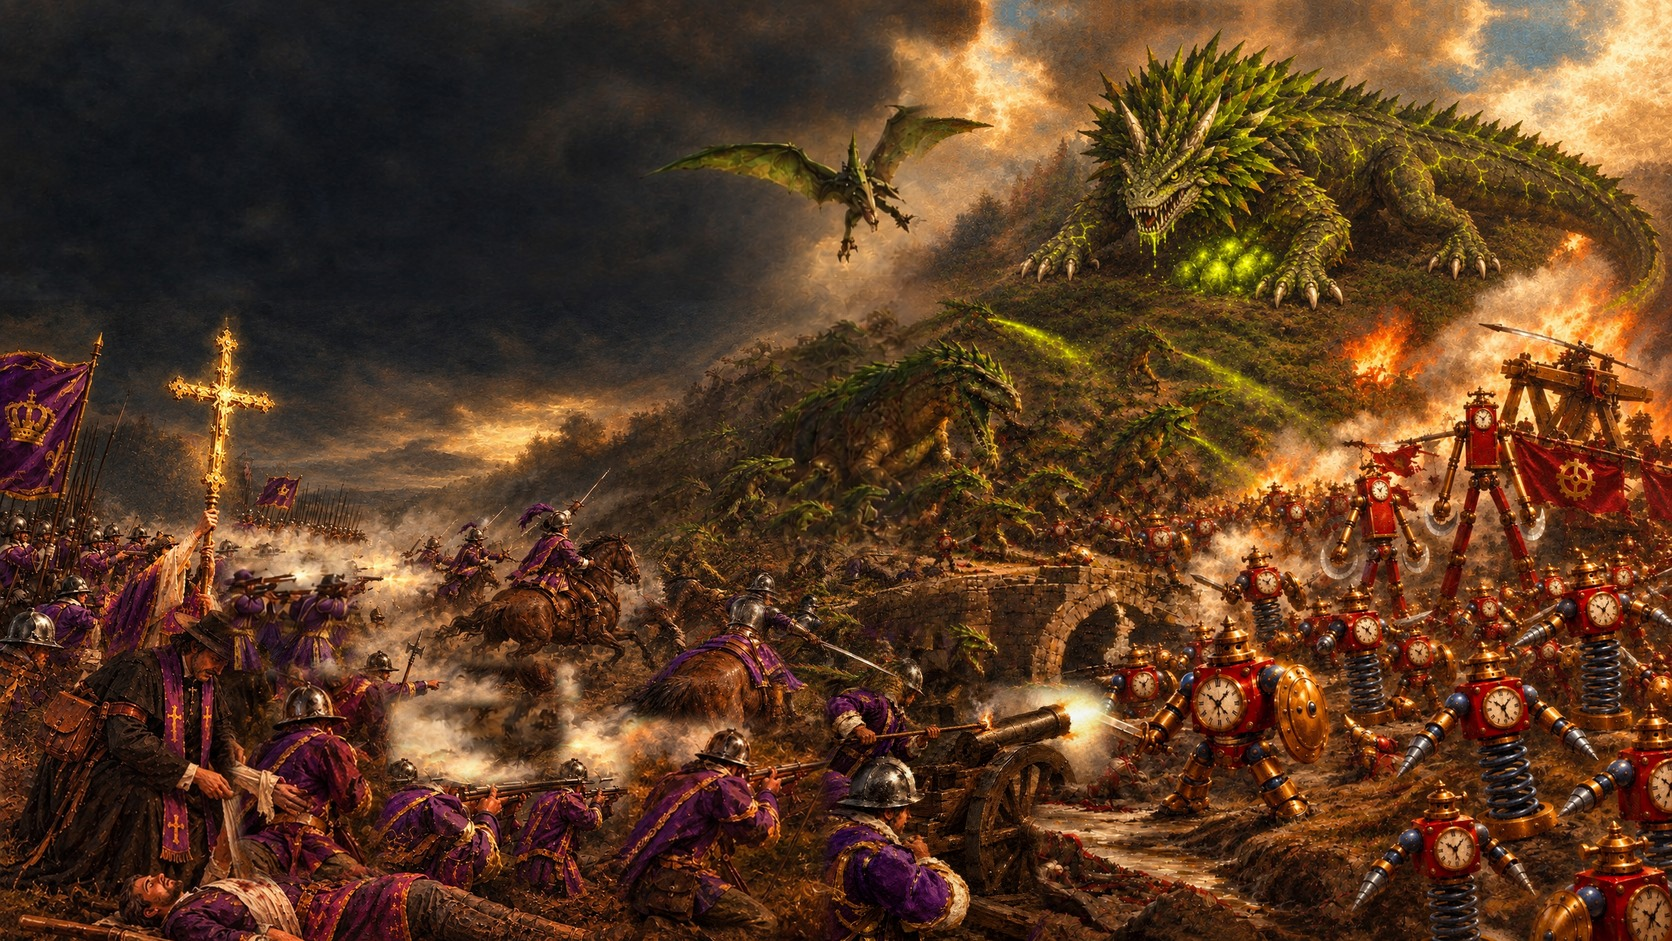
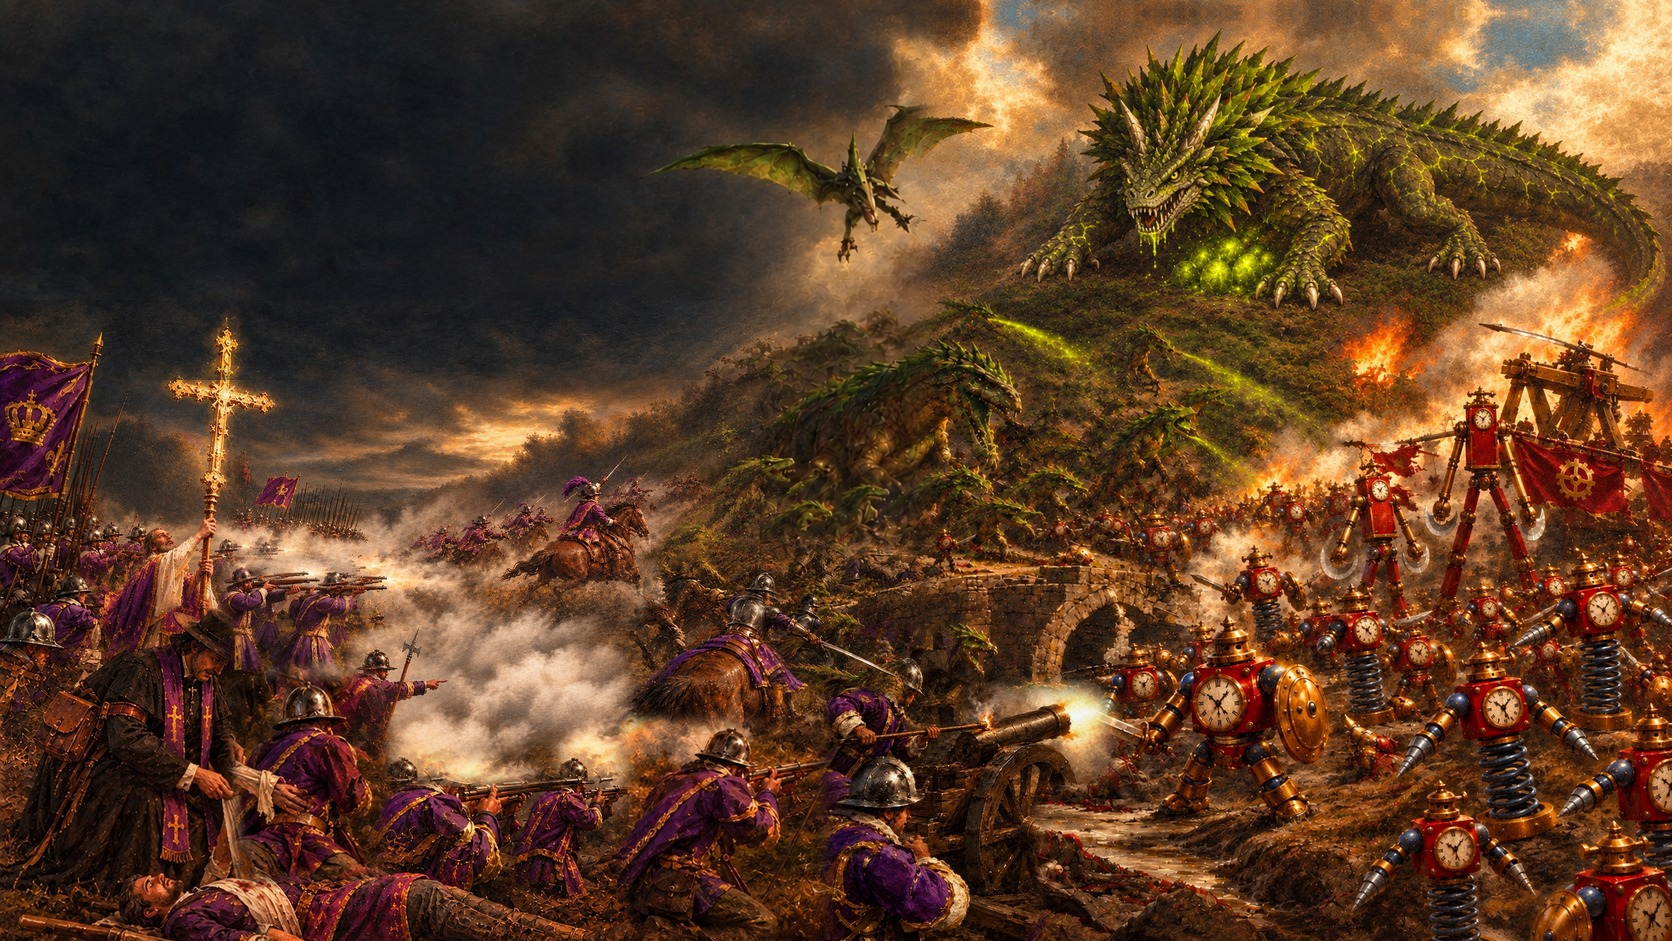
0.33.39: menu painting: the owner's Crown touch-up laid in for the cross bearer, the musket line, the cavalry and the smoke (not its missionary, kneelers or right-hand horse)
Claude-Session: https://claude.ai/code/session_01NtmEZhP1uA8k4DLQ7BYfMz

Changed region(s): [[0.0311, 0.4006, 0.4665, 0.8321], [0.2177, 0.4623, 0.2488, 0.4931]]

diff --git a/README.md b/README.md
@@ -2,7 +2,7 @@
 
 *(a working title: the game was called Holdfast until October 2026, but that name belongs to another game; the web address, the app file and the repository keep the old name for now so links and installs keep working)*
 
-**Play in your browser (version 0.33.38): https://holdfastrts.github.io/Holdfast/**
+**Play in your browser (version 0.33.39): https://holdfastrts.github.io/Holdfast/**
 
 **Windows program: https://holdfastrts.github.io/Holdfast/Holdfast_windows.zip** (rebuilt on every push; unzip it and run Holdfast.exe; if Windows warns "Windows protected your PC", click More info, then Run anyway)
 
